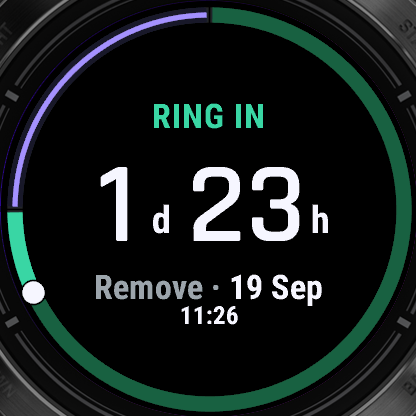
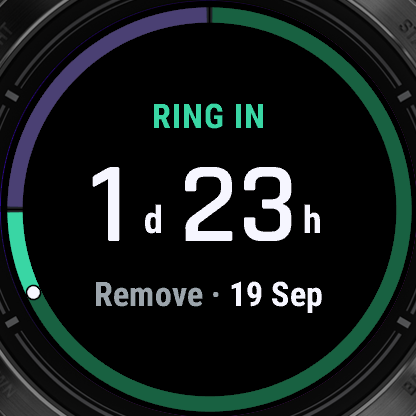
Round 2 checkpoint

diff --git a/docs/IMPLEMENTATION.md b/docs/IMPLEMENTATION.md
@@ -226,6 +226,17 @@ No other item in `docs/ux-review/DECISIONS.md` remains unimplemented. Native
 menus may reveal a deliberately partial adjacent row at the round bezel while
 scrolling; the selected row and every custom-rendered value remain unclipped.
 
+### Round 2 main-screen polish
+
+Main phase arcs now share one stroke width, use luminance for current/other
+phase hierarchy, and keep the smaller today marker inside the arc. Countdown
+groups are optically centred, with a larger 51 mm hero tier. Under-24-hour
+actions use a one-line Today/Tomorrow label; longer schedule lines degrade by
+dropping detail instead of wrapping. Overdue and serious states share the
+UI-free `Lateness` formatter, while serious-state totals remain in the
+secondary line. Temporary-out states keep a stable fifth row and show an amber
+overrun tail after a black seam.
+
 ## Release bundle
 
 After the clean build, copy the three PRGs and `RingTracker.iq` from
